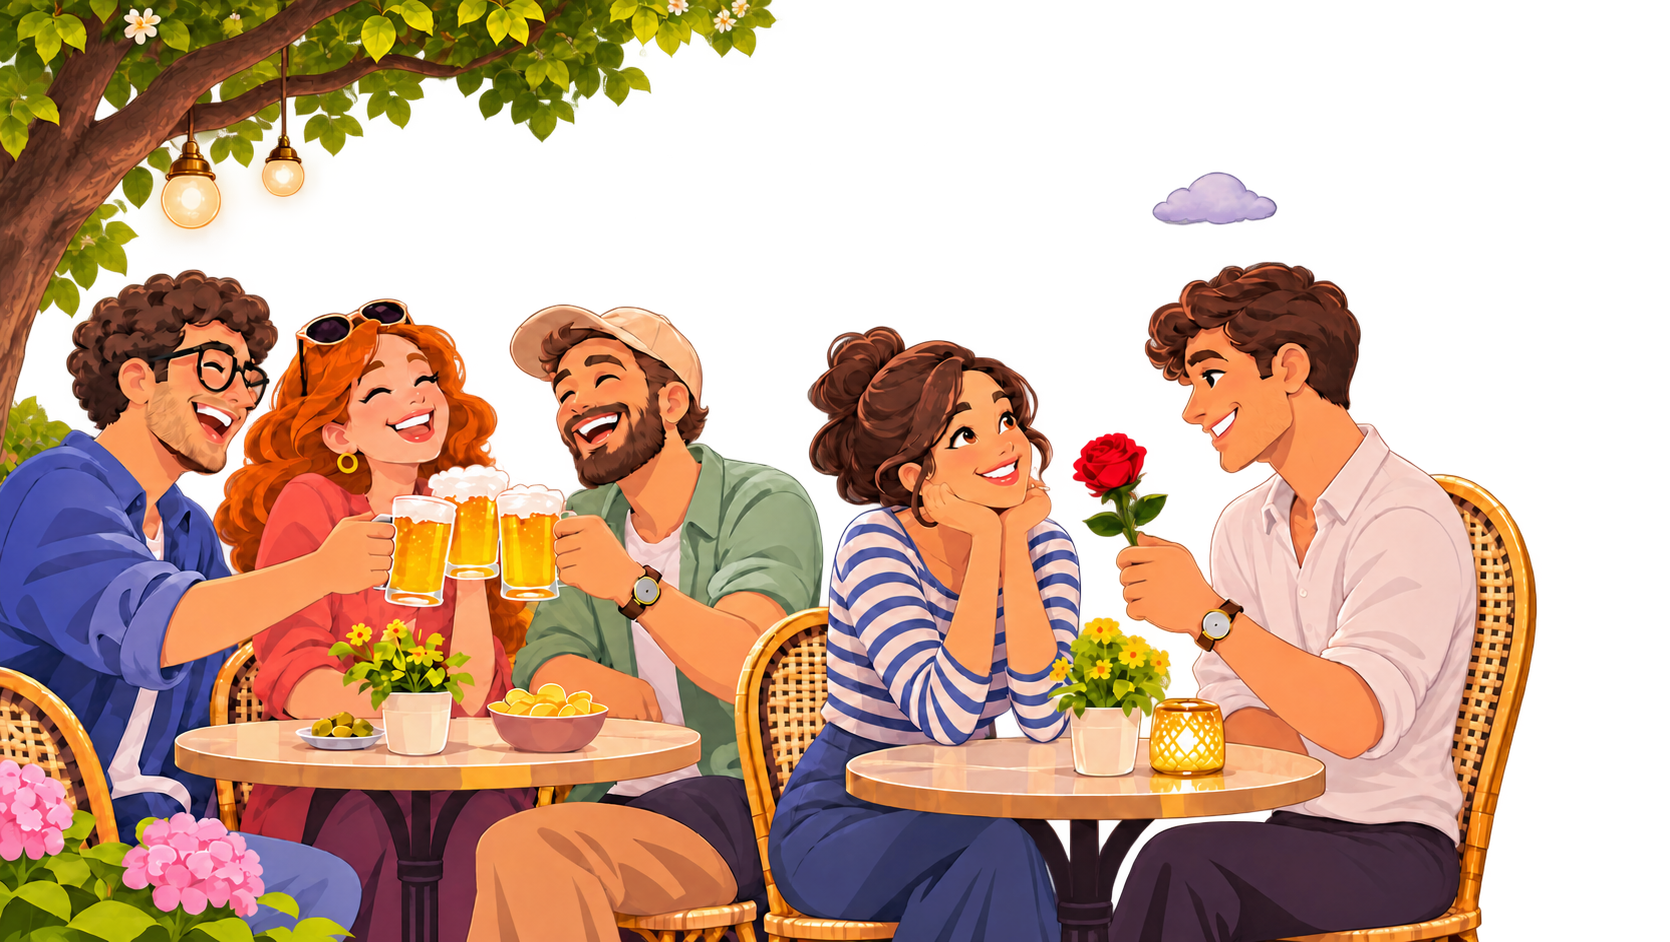
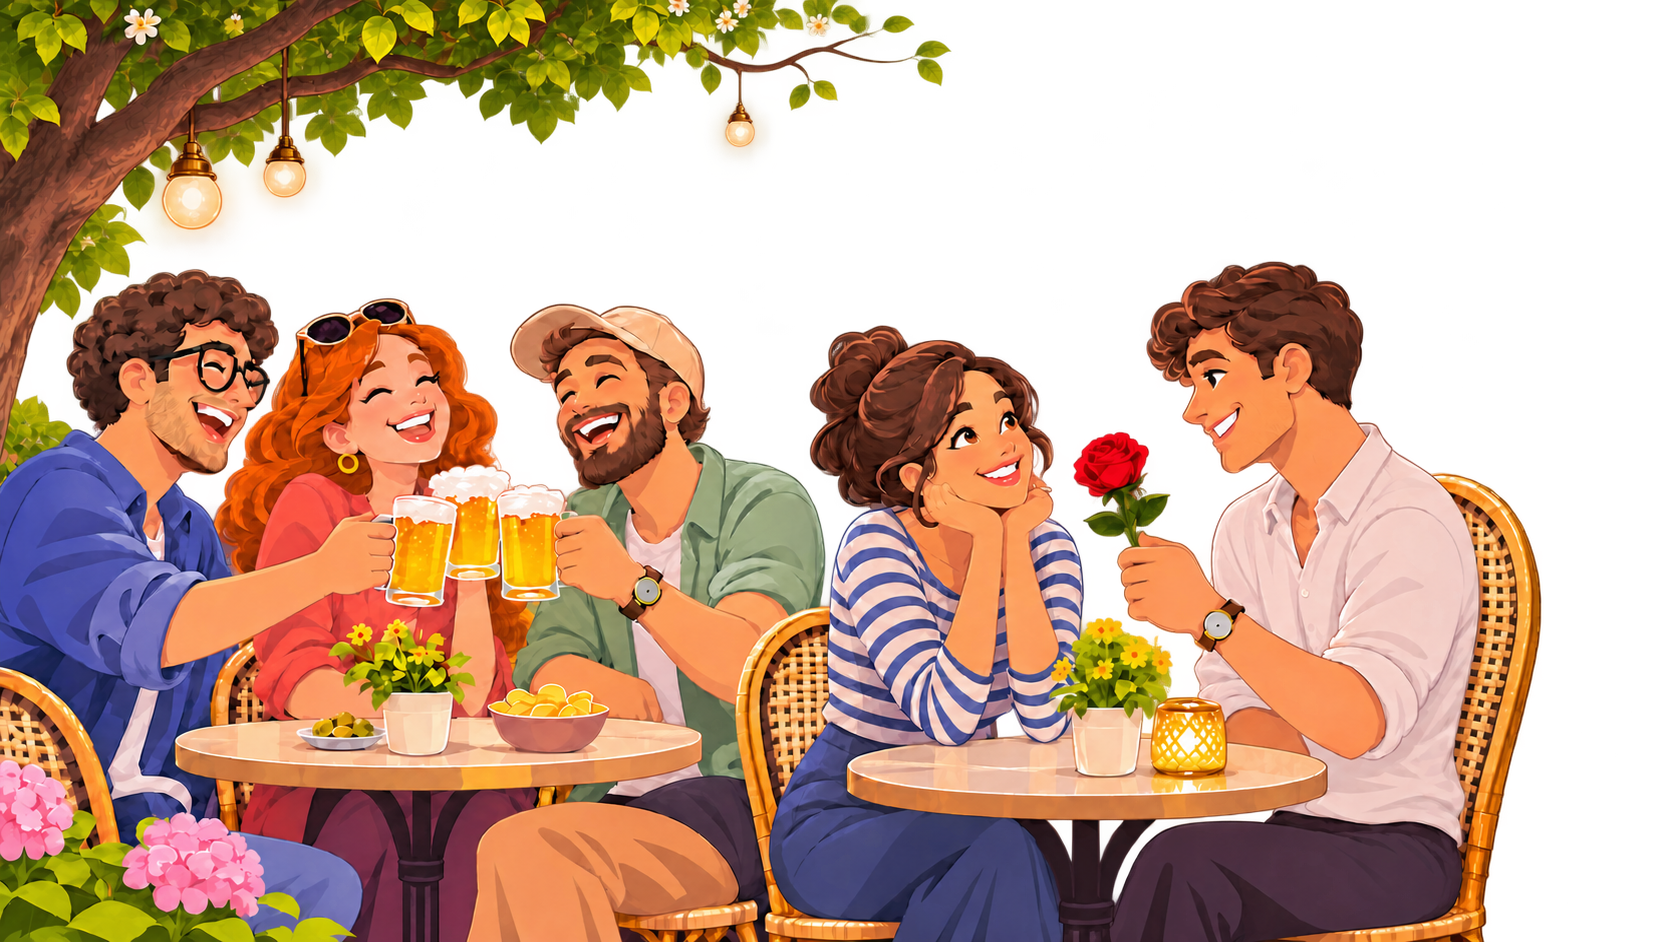
[UI] Supprimer la jointure du bandeau violet

diff --git a/src/app/secured/dashboard/dashboard.component.html b/src/app/secured/dashboard/dashboard.component.html
@@ -22,7 +22,7 @@
           </div>
           <div class="hidden min-h-64 grid-cols-[52%_48%] sm:grid sm:overflow-hidden sm:rounded-[1.8rem]">
             <div class="relative overflow-hidden bg-pop-primary"><img class="absolute inset-0 h-full w-full object-cover object-bottom" src="/illustrations/cafe-hero-foreground.png" alt="" /></div>
-            <div class="dashboard-group-panel relative flex min-w-0 flex-col justify-center px-5 py-5 lg:px-7">
+            <div class="dashboard-group-panel relative flex min-w-0 flex-col justify-center bg-pop-primary px-5 py-5 lg:px-7">
               <a class="relative z-10 flex min-w-0 items-center gap-2 text-white focus-visible:outline-2 focus-visible:outline-offset-2 focus-visible:outline-white" routerLink="/groups"><span class="flex size-8 shrink-0 items-center justify-center rounded-full bg-white/20" aria-hidden="true"><svg class="size-5" viewBox="0 0 24 24" fill="none" stroke="currentColor" stroke-width="2" stroke-linecap="round" stroke-linejoin="round"><use href="/illustrations/lucide-actions.svg#user-round-plus" /></svg></span><h1 class="min-w-0 truncate text-xl font-black lg:text-2xl">{{ group.name }}</h1><span class="text-xl" aria-hidden="true">⌄</span></a>
               <span class="sr-only">{{ group.memberCount ?? 1 }} {{ t('membersCount') }}</span>
               <div class="relative z-10 mt-3 flex -space-x-2" [attr.aria-label]="t('whoOwes')">
